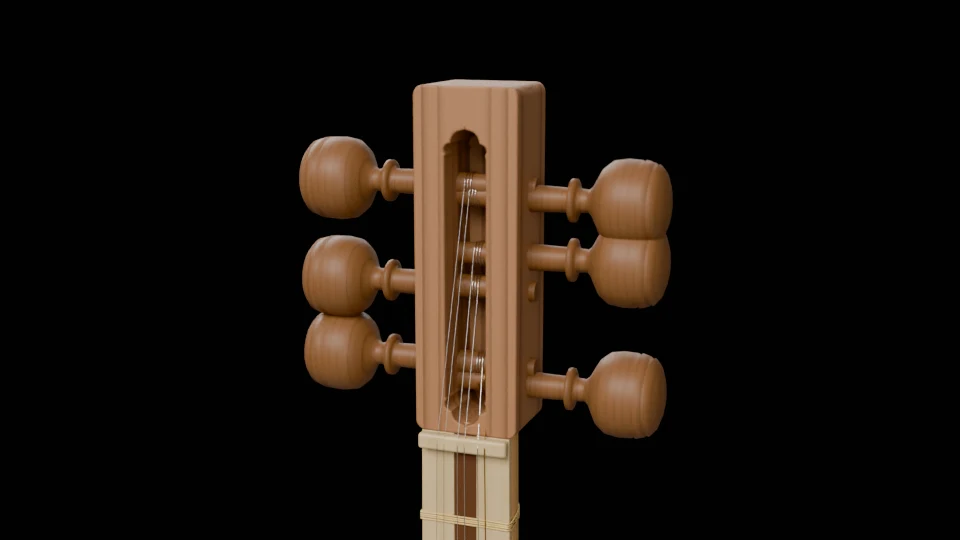
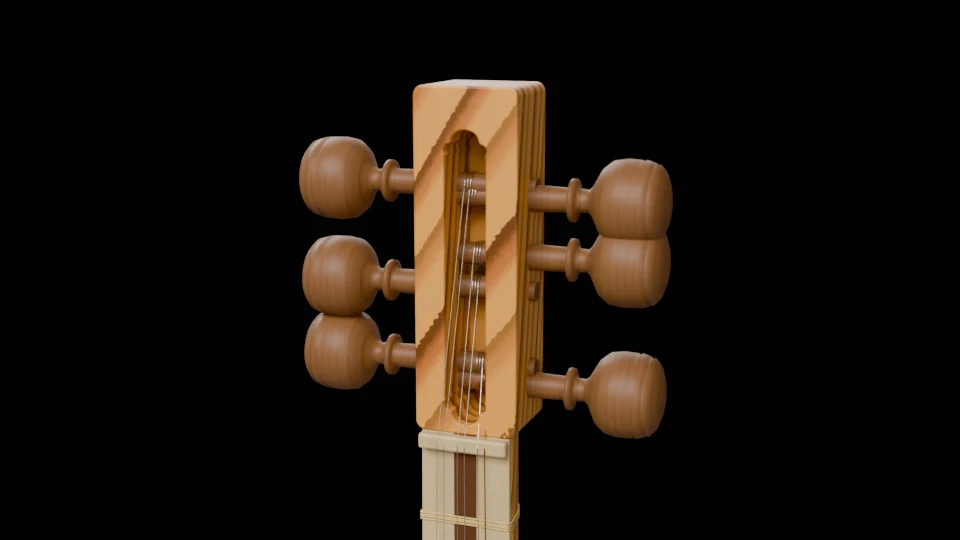
Render: satin finish by default; bowl mulberry on neck and head (round 6)
Claude-Session: https://claude.ai/code/session_01G1uTAfhbgKsxoFAeno84xV

Changed region(s): [[0.4062, 0.1481, 0.5938, 0.8296], [0.5312, 0.8889, 0.5625, 0.9481]]

diff --git a/render/build_scene.py b/render/build_scene.py
@@ -27,9 +27,9 @@ BUILD = HERE / 'build'
 ASSETS = HERE / 'assets'
 WEB_TEX = HERE.parent / 'tar3d' / 'textures'
 CM = 0.01
-# Polish of the bowl, 0 (raw, matte: the user's choice in round 5) … 1 (a thin, satin
-# oil-and-wax finish). TAR_GLOSS=1 renders the satin variant for comparison.
-GLOSS = float(os.environ.get('TAR_GLOSS', '0'))
+# Polish of the body wood, 0 (raw, matte) … 1 (a thin, satin oil-and-wax finish: the
+# user's choice after comparing both, spec section 16). TAR_GLOSS=0 renders the matte variant.
+GLOSS = float(os.environ.get('TAR_GLOSS', '1'))
 
 SCENES = json.loads((BUILD / 'scenes.json').read_text())
 PIVOT_WEB = SCENES['pivot']
@@ -212,7 +212,7 @@ def ring_wood(name, light, mid, line, axis_cm, tilt, rings_per_cm, roughness, wa
     nt.links.new(strength.outputs['Result'], mul.inputs['A'])
     nt.links.new(comb.outputs['Color'], mul.inputs['B'])
     nt.links.new(mul.outputs['Result'], bsdf.inputs['Base Color'])
-    polish = GLOSS if name in ('wood', 'lip') else 0.0
+    polish = GLOSS if name in ('wood', 'lip', 'lightWood', 'headWood') else 0.0
     bsdf.inputs['Roughness'].default_value = roughness * (1 - 0.3 * polish)
     if polish:
         # a thin satin coat: soft, broad highlights, never a mirror-like lacquer
@@ -289,8 +289,10 @@ def build_materials():
         'wood': ring_wood('wood', '#c98a3a', '#a05a24', '#4a2008', (-8, -32), (0.22, 0.12), 1.6, 0.6, line_var=(0.55, 1.0)),
         'lip': ring_wood('lip', '#8e6c52', '#7c5c44', '#5a4030', (-8, -32), (0.22, 0.12), 1.6, 0.7, line_var=(0.2, 0.6)),
         # neck, head, pegs and fingerboard: quieter, close-grained woods (rings barely show)
-        'lightWood': ring_wood('lightWood', '#c99b5e', '#b48650', '#8a5e30', (3, -6), (0, 0), 3.0, 0.55, warp_cm=0.2, line_var=(0.2, 0.6)),
-        'headWood': ring_wood('headWood', '#8c6242', '#7a5438', '#4a2e1a', (0, -0.8), (0, 0), 3.0, 0.55, warp_cm=0.2, line_var=(0.2, 0.6)),
+        # neck and head: the same golden mulberry and satin finish as the bowl (user's request,
+        # spec section 16), cut from the same log so the grain runs on along the instrument
+        'lightWood': ring_wood('lightWood', '#c98a3a', '#a05a24', '#4a2008', (-8, -32), (0.22, 0.12), 1.6, 0.6, line_var=(0.55, 1.0)),
+        'headWood': ring_wood('headWood', '#c98a3a', '#a05a24', '#4a2008', (-8, -32), (0.22, 0.12), 1.6, 0.6, line_var=(0.55, 1.0)),
         'pegWood': ring_wood('pegWood', '#6e4829', '#62401f', '#3e2612', (0, 0), (0, 0), 4.0, 0.5, warp_cm=0.2, line_var=(0.1, 0.4)),
         'boardWood': ring_wood('boardWood', '#4c2c17', '#42260f', '#2a170a', (0, -3), (0, 0), 3.0, 0.5, warp_cm=0.2, line_var=(0.2, 0.5)),
         'horn': textured('horn', None, 1, 0.35, sss=0.1, colour='#7a4a22')[0],

diff --git a/docs/tar-3d/SPEC.md b/docs/tar-3d/SPEC.md
@@ -694,3 +694,16 @@ docs/tar-3d/test/    عکسها و گزارش تست فاز ۷
 - **داراییها:** `render/fetch_assets.py` از Poly Haven (CC0) دانلود میکند: ونیر چوب زبانگنجشک (Ash Veneer: رنگ، زبری، نرمال) برای جزئیات واقعی چوب، و HDRI «Brown Photostudio 02» برای نور نرمِ اتاق. فایلها در گیت نیستند و هر بار با این اسکریپت گرفته میشوند.
 - **ر۲ (انجام شد):** جنسها در `render/build_scene.py` ساخته میشوند. چوب کاسه: حلقههای رشدِ سهبعدی دور محورِ کمی کجِ کُنده (همان محور و شیبِ مدل وب)، با پهنای سالانهی نامنظم، شدتِ جداگانه برای هر سال (چند خطِ پررنگ، بیشترشان کمرنگ) و لبهی کمی ناصاف؛ روی آن الیاف و منافذِ ونیر اسکنشدهی زبانگنجشک؛ بدون براقی (زبری ۰٫۶). گردن، سر، گوشیها و صفحهی دسته چوبهای آرامتر با حلقههای کمپیدا. پوست: بافت پوست مدل وب، روشنشده به کرمیِ عکسها، با کمی عبور نور. اشکال پیدا شده و رفع شده: واردکنندهی OBJ مقیاس ۱/۱۰۰ را روی خودِ شیءها میگذاشت و حلقهها ۱۰۰ برابر ریزتر از حد میشدند (حالا مقیاس در مش اعمال میشود).
 - **ر۳ (انجام شد، در انتظار تأیید کاربر):** نور: HDRI استودیو + یک چراغ سطحیِ نرم از بالا و جلو + یک نورِ پرکنندهی پهن و کمنور از سمت دوربین (بدون آن پوستِ رو به دوربین تیره میماند). رنگ: AgX با حالت Punchy (AgX ساده رنگ عسلی را کدر میکرد). پسزمینهی تیره `#0b0a09`. رندرهای آزمایشی ۹۶۰×۵۴۰ هر صحنه حدود ۱۰ ثانیه؛ یک فریم کامل ۱۶۰۰×۹۰۰ با ۹۶ نمونه حدود ۳۰ ثانیه، پس ۲۴۰ فریم ≈ ۲ ساعت و برگهی چرخش (۱۲۰ فریم ۱۲۰۰×۹۰۰) ≈ ۴۰ دقیقه.
+
+## ۱۶. دور اصلاح ۶ — پرداخت ساتن و چوب یکسان برای دسته و سر (۱۴۰۵/۰۷/۱۱)
+
+**درخواست کاربر:** پرداختِ «یک پرده صیقلی» (ساتن) که در مقایسه دیده شد نگه داشته شود؛ همین جنس و نسخهی چوب کاسه برای دسته و بدنهی سر هم به کار رود.
+
+| تغییر | فاز در طرح اصلی (بخش ۶) | فاز در راه حل ۲ (بخش ۱۵) |
+|-------|--------------------------|----------------------------|
+| پرداخت ساتن کاسه و لبهی پوست (پیشفرض شد؛ `TAR_GLOSS=0` نسخهی مات) | فاز ۵ — جنسها و بافتها (اثرش زیر نور: فاز ۶) | ر۲ — جنسها؛ بازبینی در رندرهای ر۳ |
+| چوب توت طلایی کاسه برای دسته و پاشنه (همان کُنده و محور، رگهها پیوسته در طول ساز) | فاز ۵ (هندسهی دسته در فاز ۳ دست نخورد) | ر۲؛ بازبینی ر۳ |
+| همان چوب و پرداخت برای بدنهی سرپنجه | فاز ۵ (هندسهی سر در فاز ۴ دست نخورد) | ر۲؛ بازبینی ر۳ |
+| رندر نهایی با این تنظیمها | فاز ۶ | ر۴ |
+
+بدون تغییر ماندند: صفحهی استخوانی و نوار تیرهی وسط دسته، گوشیها، خرک و پردههای زهی. این تغییرها فقط در خروجی رندرشده (`render/build_scene.py`) اعمال شدهاند؛ مدل وبِ `tar3d/` از دور اصلاح ۵ به بعد مرجع خروجی نیست.
